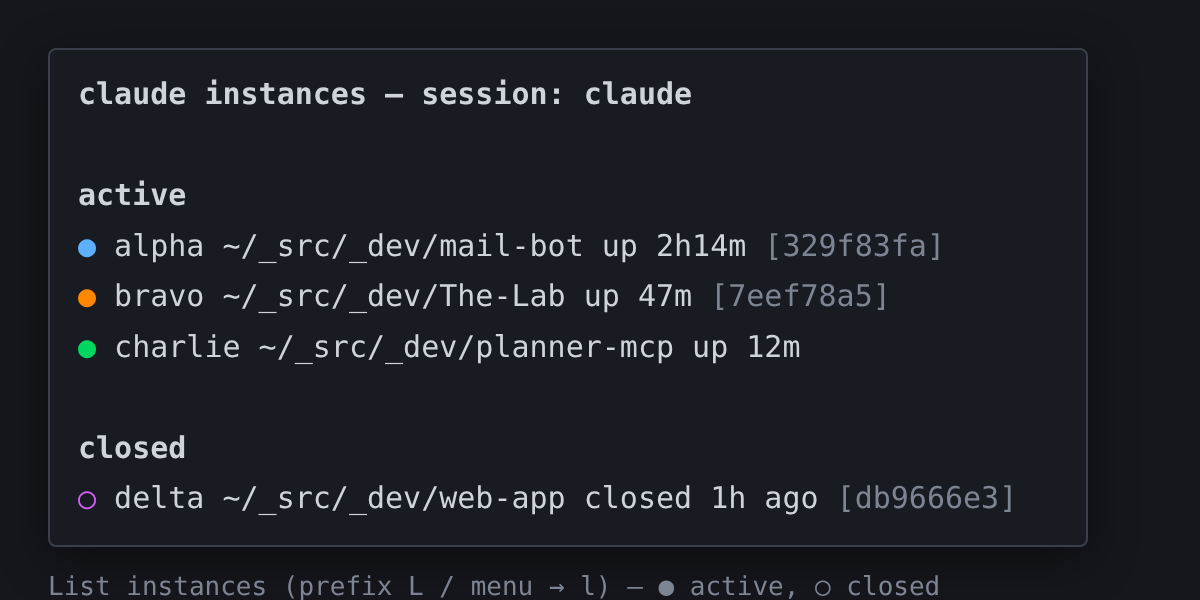
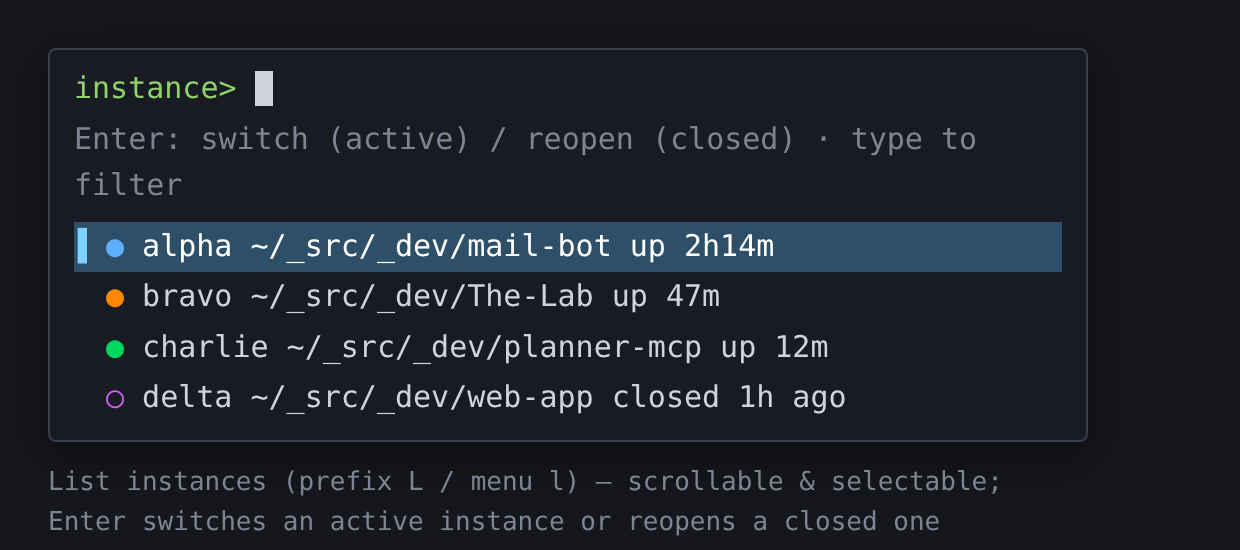
feat: scrollable/selectable instance list (switch or reopen)
List instances (prefix L / menu l) is now an fzf picker (scroll + type to
filter) instead of a read-only popup:
- claude-pick: select an ACTIVE instance -> switch tmux to its window; select a
  CLOSED one -> reopen via claude-new -i <transcript> in its saved dir, resuming
  the conversation and loading that project's CLAUDE.md + memory.
- repoint the List bindings (menus + prefix L) to claude-pick; install.sh links
  it; falls back to the read-only list without fzf.
- update the list screenshot to the picker, docs + onboarding key table.

diff --git a/docs/screenshots/instances-list.html b/docs/screenshots/instances-list.html
@@ -1,15 +1,12 @@
 <!DOCTYPE html><html><head><meta charset="utf-8"><link rel="stylesheet" href="style.css"></head><body>
 <div class="wrap">
-  <div class="popup"><div class="pad">
-    <div class="h">claude instances — session: claude</div>
-    <div>&nbsp;</div>
-    <div class="bold">active</div>
-    <div><span class="alpha">●</span> alpha    ~/_src/_dev/mail-bot      up 2h14m <span class="dim">[329f83fa]</span></div>
-    <div><span class="bravo">●</span> bravo    ~/_src/_dev/The-Lab       up 47m   <span class="dim">[7eef78a5]</span></div>
-    <div><span class="charlie">●</span> charlie  ~/_src/_dev/planner-mcp   up 12m</div>
-    <div>&nbsp;</div>
-    <div class="bold">closed</div>
-    <div><span class="delta dim">○</span> delta    ~/_src/_dev/web-app       closed 1h ago <span class="dim">[db9666e3]</span></div>
+  <div class="popup"><div class="fzf">
+    <div class="prompt">instance&gt; <span class="cursor">&nbsp;</span></div>
+    <div class="count">Enter: switch (active) / reopen (closed) · type to filter</div>
+    <div class="item cur"><span class="alpha">●</span> alpha    ~/_src/_dev/mail-bot      up 2h14m</div>
+    <div class="item"><span class="bravo">●</span> bravo    ~/_src/_dev/The-Lab       up 47m</div>
+    <div class="item"><span class="charlie">●</span> charlie  ~/_src/_dev/planner-mcp   up 12m</div>
+    <div class="item"><span class="delta">○</span> delta    ~/_src/_dev/web-app       closed 1h ago</div>
   </div></div>
-  <div class="caption">List instances (prefix L / menu → l) — ● active, ○ closed</div>
+  <div class="caption">List instances (prefix L / menu l) — scrollable &amp; selectable; Enter switches an active instance or reopens a closed one (resuming it)</div>
 </div></body></html>

diff --git a/docs/index.html b/docs/index.html
@@ -29,7 +29,8 @@ per window. Portable: no hardcoded users, paths, hosts, or terminals.</p>
 <table>
   <tr><th>File</th><th>Purpose</th></tr>
   <tr><td><a href="../cj"><code>cj</code></a></td><td>Primary join command — attach, reuse/spawn an instance, optional auto-name.</td></tr>
-  <tr><td><a href="../claude-ls"><code>claude-ls</code></a></td><td>List active + closed instances with names and colors.</td></tr>
+  <tr><td><a href="../claude-ls"><code>claude-ls</code></a></td><td>Print active + closed instances with names and colors.</td></tr>
+  <tr><td><a href="../claude-pick"><code>claude-pick</code></a></td><td>Interactive picker (fzf): select an active instance to switch, a closed one to reopen.</td></tr>
   <tr><td><a href="../claude-new"><code>claude-new</code></a></td><td>Open a new named/colored instance (new / resume / continue).</td></tr>
   <tr><td><a href="../claude-restore"><code>claude-restore</code></a></td><td>Reopen a closed instance from the registry in its old directory.</td></tr>
   <tr><td><a href="../claude-popup"><code>claude-popup</code></a></td><td>Run a view (ls/help) inside a tmux popup, pausing for a key.</td></tr>
@@ -136,6 +137,13 @@ drop older closed history.</p></div>
 name dots, directory, and uptime/closed-ago. <code>--reconcile-only</code> just
 updates the registry (used by the tmux close hook); <code>--prune [N]</code>
 trims closed history to the newest N (default 50).</p></div>
+<div class="sym"><h3 id="cmd-pick"><code>claude-pick</code></h3>
+<p>The interactive, scrollable, type-to-filter picker behind <strong>List
+instances</strong> (<code>prefix L</code> / menu <code>l</code>). Selecting an
+<strong>active</strong> instance switches tmux to its window; selecting a
+<strong>closed</strong> one reopens it via <code>claude-new -i &lt;transcript&gt;</code>
+in its saved directory — resuming its conversation and loading that project's
+<code>CLAUDE.md</code> + memory. Falls back to the read-only list without fzf.</p></div>
 <div class="sym"><h3 id="cmd-shell"><code>claude-shell [-c DIR] [-D] [-n NAME]</code></h3>
 <p>Open a window running an interactive login shell (no Claude) for things Claude
 can't do itself — <code>sudo</code>, interactive logins/TUIs, etc. Opens in the
@@ -210,7 +218,7 @@ interactive attaches). Require tmux ≥ 3.2.</p>
 <table>
   <tr><th>Key</th><th>Action</th></tr>
   <tr><td><code>prefix + C</code></td><td>open the action <strong>menu</strong> (all actions below)</td></tr>
-  <tr><td><code>prefix + L</code></td><td>list instances (popup)</td></tr>
+  <tr><td><code>prefix + L</code></td><td>list instances — selectable picker (Enter: switch active / reopen closed)</td></tr>
   <tr><td><code>prefix + N</code></td><td>new instance (in the current window's dir)</td></tr>
   <tr><td><code>prefix + D</code></td><td>new instance in a directory you type (menu: "New in dir…")</td></tr>
   <tr><td><code>prefix + E</code></td><td>rename the current instance</td></tr>

diff --git a/ONBOARDING.md b/ONBOARDING.md
@@ -34,7 +34,7 @@ The menu (`prefix C` / `F9` / tap the status bar):
 | Action | Key | Menu |
 |---|---|---|
 | **Open the menu** | `prefix C` (or **`F9`**, or **tap the session name** in the status bar) | — |
-| List instances (active + closed) | `prefix L` | List |
+| List instances — pick to **switch** (active) or **reopen** (closed) | `prefix L` | List |
 | New instance (current dir) | `prefix N` | New |
 | New instance in a chosen dir (fzf typeahead) | `prefix D` | New in dir… |
 | Rename instance | `prefix E` | Rename |